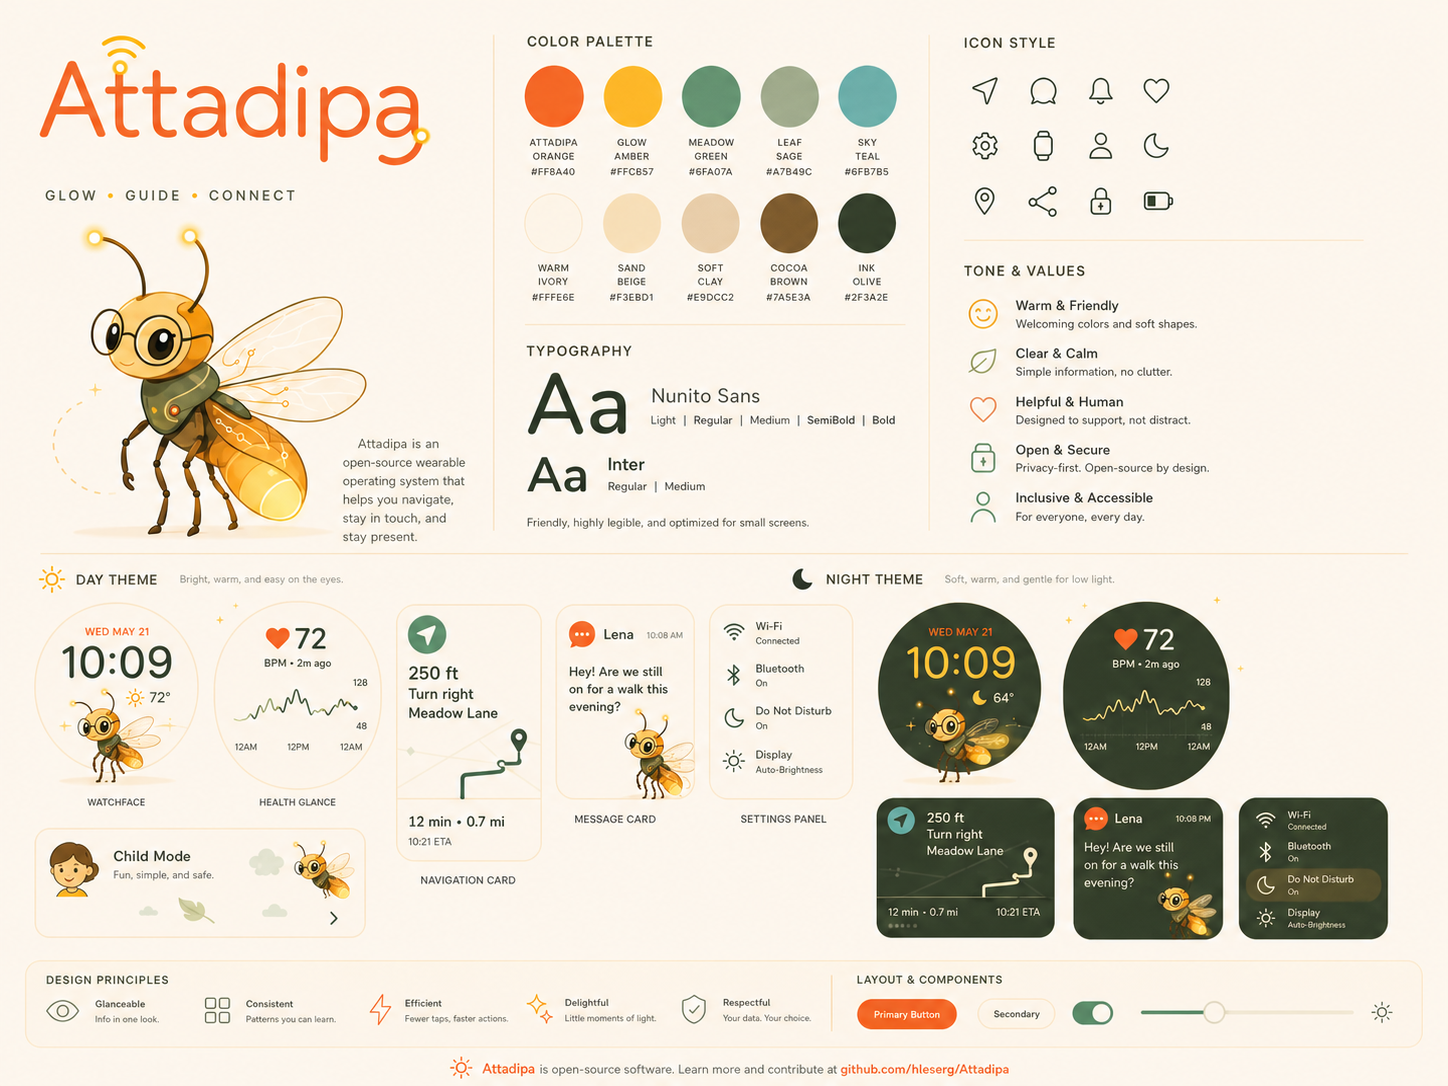
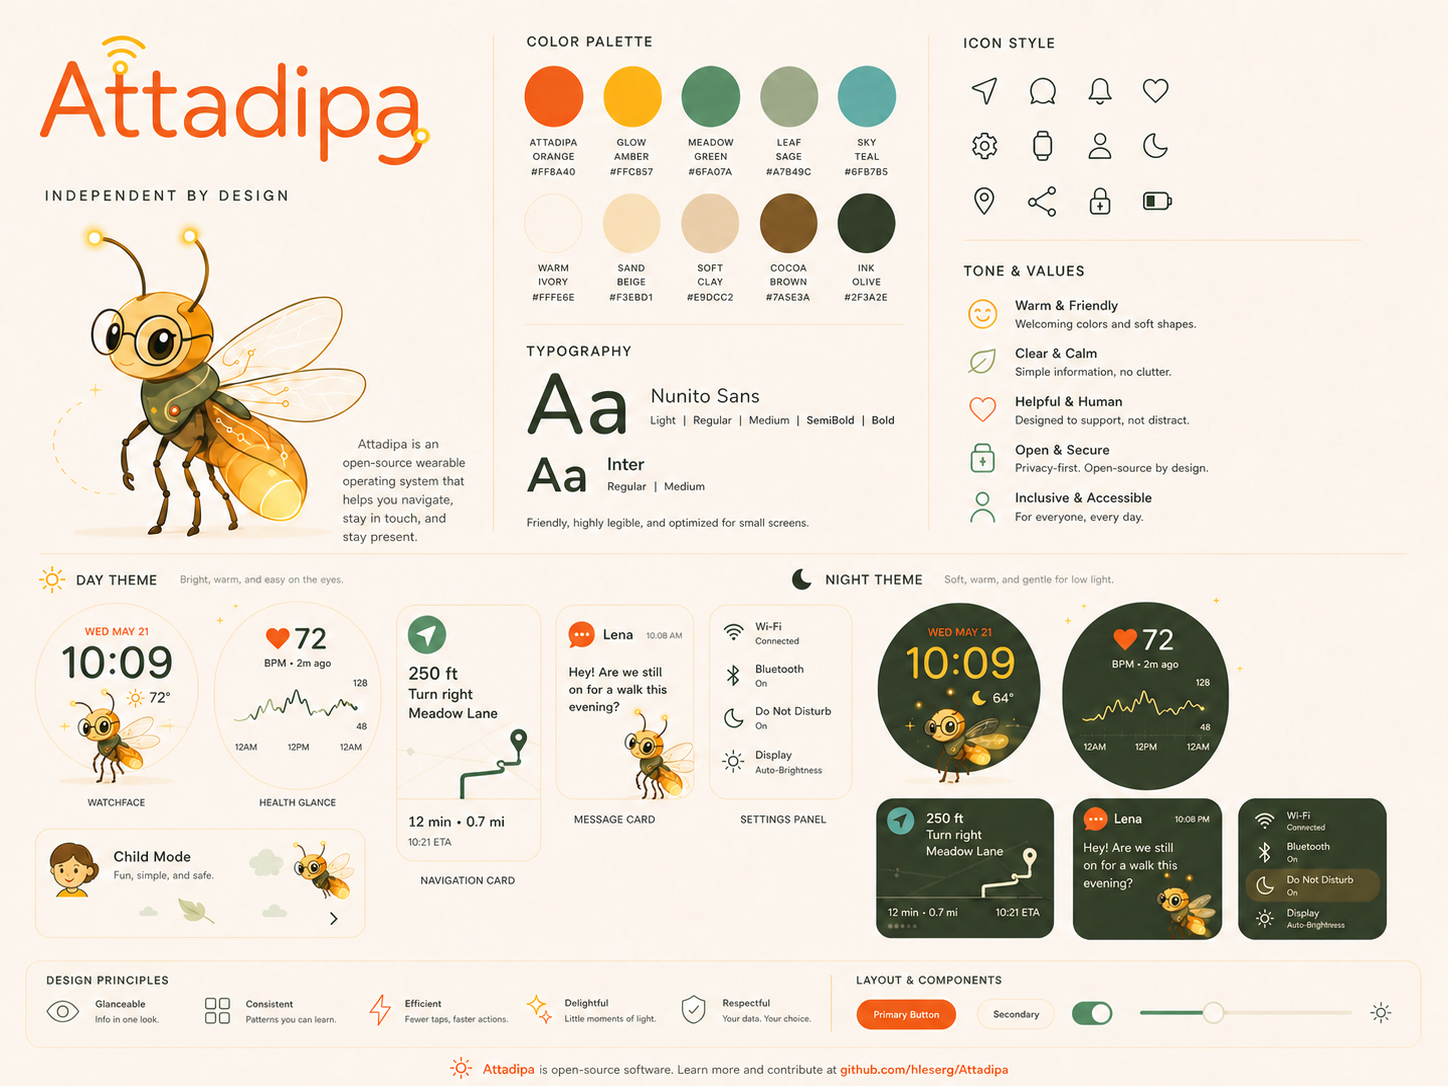
docs: adopt independent by design motto

diff --git a/docs/index.html b/docs/index.html
@@ -5,10 +5,10 @@
   <meta name="viewport" content="width=device-width, initial-scale=1">
   <meta name="theme-color" content="#FFF6E8">
   <meta name="color-scheme" content="light dark">
-  <title>Attadipa — Glow · Guide · Connect</title>
+  <title>Attadipa — Independent by design</title>
   <meta name="description" content="Attadipa is an open-source wearable firmware/application platform for ESP32-S3: mesh messaging, offline navigation, clean app APIs and a product-grade UI.">
   <meta property="og:type" content="website">
-  <meta property="og:title" content="Attadipa — Glow · Guide · Connect">
+  <meta property="og:title" content="Attadipa — Independent by design">
   <meta property="og:description" content="An open, hardware-aware wearable platform for mesh messaging, offline navigation and useful apps without depending on a phone.">
   <meta property="og:image" content="https://hleserg.github.io/Attadipa/assets/og-card.jpg">
   <meta property="og:url" content="https://hleserg.github.io/Attadipa/">
@@ -80,6 +80,8 @@
         </h1>
         <p class="hero-lead lang-en" lang="en">Attadipa is an open firmware/application platform being built for ESP32-S3 wearables: mesh messaging, offline navigation, clean app APIs, and a UI meant to feel like a real product.</p>
         <p class="hero-lead lang-ru" lang="ru">Attadipa — открытая прошивка и платформа приложений для носимых устройств на ESP32-S3: mesh-связь, офлайн-навигация, чистые API для приложений и интерфейс, который должен ощущаться как настоящий продукт.</p>
+        <p class="project-name-note lang-en" lang="en"><em>Attadipa</em> comes from Pāli <em>attadīpa</em>: “self-reliant; one’s own island or refuge.” It is a quiet reminder that the essentials should work without a phone or cloud.</p>
+        <p class="project-name-note lang-ru" lang="ru"><em>Attadipa</em> — от палийского <em>attadīpa</em>: «опирающийся на себя; собственный остров или прибежище». Это ненавязчивое напоминание: главное должно работать без телефона и облака.</p>
         <div class="hero-actions">
           <a class="btn primary" href="https://github.com/hleserg/Attadipa" target="_blank" rel="noreferrer">
             <span class="lang-en">View on GitHub</span><span class="lang-ru">Открыть GitHub</span>
@@ -94,7 +96,7 @@
         </div>
       </div>
       <div class="hero-art reveal reveal-delay" aria-label="Attadipa brand banner">
-        <img src="assets/attadipa-banner.png" width="1788" height="894" alt="Attadipa — Glow, Guide, Connect">
+        <img src="assets/attadipa-banner.png" width="1788" height="894" alt="Attadipa — Independent by design">
         <span class="glow g1"></span><span class="glow g2"></span><span class="glow g3"></span>
       </div>
     </section>
@@ -309,7 +311,7 @@
 
   <footer class="footer">
     <div class="shell footer-inner">
-      <div class="footer-brand"><img src="assets/favicon.png" width="28" height="28" alt=""><span>Attadipa</span><small>Glow · Guide · Connect</small></div>
+      <div class="footer-brand"><img src="assets/favicon.png" width="28" height="28" alt=""><span>Attadipa</span><small>Independent by design</small></div>
       <p><span class="lang-en">Open source under the MIT License. Early development — claims on this page describe both current state and explicit product goals as labelled.</span><span class="lang-ru">Открытый проект под лицензией MIT. Разработка на раннем этапе: на странице отдельно описаны текущее состояние и заявленные цели продукта.</span></p>
       <a href="#top"><span class="lang-en">Back to top</span><span class="lang-ru">Наверх</span> ↑</a>
     </div>

diff --git a/docs/assets/site.css b/docs/assets/site.css
@@ -10,3 +10,4 @@
 @media (max-width:660px){:root{--shell:min(100% - 28px,1180px);--radius:22px}.topbar{position:sticky}.nav-shell{height:66px;gap:10px}.brand span{font-size:17px}.github-mini{display:none}.hero{padding-block:42px 56px}.hero h1{font-size:45px}.hero-lead{font-size:17px}.hero-art{padding:6px;border-radius:24px}.hero-art img{border-radius:19px}.section{padding-block:74px}.section h2{font-size:36px}.section-heading p,.split-copy p,.design-copy p,.status-copy p,.ideas-copy p,.contribute-card p{font-size:16px}.feature-grid,.hardware-grid{grid-template-columns:1fr}.feature-card{min-height:0}.split{gap:40px}.architecture{padding:19px;border-radius:23px}.arch-row{grid-template-columns:1fr 1fr}.arch-providers{grid-template-columns:1fr}.design-grid{gap:35px}.status-card{padding:28px;border-radius:25px}.status-card h2{font-size:34px}.ideas-art{min-height:330px}.ideas-art img{max-height:350px}.contribute-card{padding:28px;gap:35px}.footer-inner{grid-template-columns:1fr}.footer p{grid-column:auto}.footer-inner>a{justify-self:start}.lang-switch button{padding:4px 7px}.hero-meta{font-size:10px}}
 @media (prefers-color-scheme:dark){:root{--ivory:#252d23;--surface:#30372d;--surface-2:#394034;--clay:#3b4337;--border:rgba(255,246,232,.12);--muted:#c4bba8;--shadow:0 28px 80px rgba(0,0,0,.20);--shadow-small:0 12px 30px rgba(0,0,0,.16)}body{background:#252d23;color:#fff6e8}.topbar{background:rgba(37,45,35,.88)}.lang-switch{background:rgba(60,64,51,.8)}.lang-switch button[aria-pressed="true"]{background:#3c4033;color:#fff6e8}.github-mini{background:#fff6e8;color:#2f3a2e}.hero-art,.feature-card,.hardware-card,.contribute-card{background:rgba(60,64,51,.46)}.btn.secondary{background:rgba(60,64,51,.5)}.band{background:linear-gradient(135deg,rgba(60,64,51,.6),rgba(79,127,118,.12))}.design-band{background:#2d352a}.design-board{background:#343b30}.ideas-band{background:radial-gradient(circle at 14% 60%,rgba(255,200,87,.12),transparent 25%),linear-gradient(135deg,#2b3328,#34382e)}.ideas-art img{mix-blend-mode:normal;border-radius:26px}.idea-pills>span{background:rgba(60,64,51,.55)}.contribute-links a{background:rgba(60,64,51,.42)}.nav-links a{color:#D8D2C4}.nav-links a:hover{color:var(--amber)}.eyebrow{color:#E2B86D}.hero-meta{color:#D7B677}.hero .btn.secondary{background:rgba(255,246,232,.10);border-color:rgba(255,246,232,.24);color:#FFF6E8}.hero .btn.secondary:hover{background:rgba(255,246,232,.16)}.architecture{background:#20291F;color:#FFF6E8}.status-card{background:#20291F;color:#FFF6E8}.status-card h2{color:#FFF6E8}.status-card .btn.secondary{color:#FFF6E8}.design-copy h2,.status-copy h2{color:#FFF6E8}.contact-note{background:rgba(111,183,181,.10);border-color:rgba(111,183,181,.24)}}
 @media (prefers-reduced-motion:reduce){html{scroll-behavior:auto}.reveal{opacity:1;transform:none;transition:none}.glow{animation:none}.btn,.feature-card,.contribute-links a{transition:none}}
+.project-name-note{max-width:610px;margin:13px 0 0;color:color-mix(in srgb,var(--muted) 86%,var(--ivory));font-size:13px;line-height:1.5}.project-name-note em{font-style:normal;color:color-mix(in srgb,var(--cocoa) 78%,transparent)}

diff --git a/docs/assets/site.js b/docs/assets/site.js
@@ -6,11 +6,11 @@
 
   const copy = {
     en: {
-      title: 'Attadipa — Glow · Guide · Connect',
+      title: 'Attadipa — Independent by design',
       description: 'Attadipa is an open-source wearable firmware/application platform for ESP32-S3: mesh messaging, offline navigation, clean app APIs and a product-grade UI.'
     },
     ru: {
-      title: 'Attadipa — Glow · Guide · Connect',
+      title: 'Attadipa — Independent by design',
       description: 'Attadipa — открытая платформа прошивки и приложений для носимых устройств на ESP32-S3: mesh-связь, офлайн-навигация, чистые API и продуманный интерфейс.'
     }
   };

diff --git a/ATTADIPA_RENAME_PLAN.md b/ATTADIPA_RENAME_PLAN.md
@@ -6,6 +6,17 @@
 **Маскот:** **Lumar** — светлячок  
 **Архитектурное кредо:** **Independent by design.** Само имя Attadipa отсылает к палийскому *attadīpa* — «опирающийся на себя / имеющий себя островом и прибежищем». Ключевые возможности устройства не должны зависеть от телефона, облака или внешней инфраструктуры, если технически могут выполняться локально.
 
+> **Статус исполнения, 2026-08-21.** Технический rename, документация,
+> бренд-материалы, GitHub repository и GitHub Pages завершены. Проверены
+> новый URL, redirect старого URL, Discussions, Issues, Actions, Pages,
+> CodeQL, secrets/variables, environments и webhooks. У проекта нет внешних
+> сервисов, Docker/GHCR, релизов, пакетов, пользовательского домена, соцсетей
+> или отдельной CI-инфраструктуры — соответствующие пункты этого плана
+> неприменимы, а не пропущены. Остаются только намеренно отложенные действия:
+> регистрация домена при появлении такой потребности, профессиональный
+> trademark-clearance перед коммерческим запуском и контрольный внешний аудит
+> через 1–2 недели после публичного переименования.
+
 ---
 
 ## 0. Канонические правила именования
@@ -163,16 +174,16 @@ Targeted search не выявил exact package/component `attadipa` в:
 
 Он должен содержать:
 
-- [ ] `Attadipa` — имя проекта, всегда с такой капитализацией.
-- [ ] `Lumar` — имя маскота.
-- [ ] Lumar — светлячок; слово `firefly` допустимо только как обычное существительное.
-- [ ] `Independent by design` — архитектурное кредо, раскрывающее смысл названия.
-- [ ] Происхождение имени: палийское `attadīpa`; в самом бренде пишем `Attadipa` без диакритики.
-- [ ] Attadipa не расшифровывается как аббревиатура.
-- [ ] Не использовать `AttadipaOS` как альтернативное официальное имя без отдельного решения.
-- [ ] Правила для `attadipa`, `ATTADIPA_`, `attadipa_*`.
-- [ ] Русское написание в обычном тексте: **Аттадипа**, рекомендуемое произношение — **атта-ДИ-па**.
-- [ ] В UI/логотипе бренд лучше оставлять латиницей: **Attadipa**.
+- [x] `Attadipa` — имя проекта, всегда с такой капитализацией.
+- [x] `Lumar` — имя маскота.
+- [x] Lumar — светлячок; слово `firefly` допустимо только как обычное существительное.
+- [x] `Independent by design` — архитектурное кредо, раскрывающее смысл названия.
+- [x] Происхождение имени: палийское `attadīpa`; в самом бренде пишем `Attadipa` без диакритики.
+- [x] Attadipa не расшифровывается как аббревиатура.
+- [x] Не использовать `AttadipaOS` как альтернативное официальное имя без отдельного решения.
+- [x] Правила для `attadipa`, `ATTADIPA_`, `attadipa_*`.
+- [x] Русское написание в обычном тексте: **Аттадипа**, рекомендуемое произношение — **атта-ДИ-па**.
+- [x] В UI/логотипе бренд лучше оставлять латиницей: **Attadipa**.
 
 Это станет защитой от постепенного расползания названия по коду.
 
@@ -182,9 +193,9 @@ Targeted search не выявил exact package/component `attadipa` в:
 
 ## 2.1. Не переписывать историю Git
 
-- [ ] **Не делать filter-repo/BFG по старым коммитам.**
-- [ ] Не пытаться удалить `FireflyOS` из исторических commit messages.
-- [ ] Не менять старые merge commits и PR history.
+- [x] **Не делать filter-repo/BFG по старым коммитам.**
+- [x] Не пытаться удалить `FireflyOS` из исторических commit messages.
+- [x] Не менять старые merge commits и PR history.
 
 Причина: переписывание истории сломает SHA, PR references, forks и ссылки и ничего полезного для ребрендинга не даст.
 
@@ -198,13 +209,13 @@ Targeted search не выявил exact package/component `attadipa` в:
 
 Рекомендуемый порядок:
 
-- [ ] Создать ветку `rename/firefly-to-attadipa`.
-- [ ] На время rename не принимать крупные архитектурные изменения.
-- [ ] Не смешивать ребрендинг с рефакторингом логики.
-- [ ] Сначала добиться зелёного host build + tests + simulator под новым именем.
-- [ ] Затем слить rename.
-- [ ] Сразу после merge переименовать сам GitHub repository.
-- [ ] После rename репозитория провести второй проход проверки ссылок и внешних интеграций.
+- [x] Создать ветку `rename/firefly-to-attadipa`.
+- [x] На время rename не принимать крупные архитектурные изменения.
+- [x] Не смешивать ребрендинг с рефакторингом логики.
+- [x] Сначала добиться зелёного host build + tests + simulator под новым именем.
+- [x] Затем слить rename.
+- [x] Сразу после merge переименовать сам GitHub repository.
+- [x] После rename репозитория провести второй проход проверки ссылок и внешних интеграций.
 
 ---
 

diff --git a/docs/ui/reference/README.md b/docs/ui/reference/README.md
@@ -6,8 +6,8 @@ final master specification
 §40) and are named there as *canonical visual references* — not mood-board
 decoration.
 
-They are **immutable design references**. Do not edit them, do not re-export
-them, do not overwrite them with a "cleaned up" version. Derived and cleaned
+They are **canonical design references**. Update them only through an explicit
+brand decision; do not silently "clean up" or redraw them. Derived and cleaned
 artwork belongs in `ui/assets/source/`; generated target assets belong in
 `ui/assets/generated/`; the scripts that produce them belong in `tools/assets/`
 (§45). Nothing in this directory is ever compiled into firmware — a 1448×1086
@@ -15,17 +15,17 @@ PNG is a desktop concept sheet, not a watch asset.
 
 | File | SHA-256 | Size | Pixels |
 |---|---|---|---|
[6 lines of base64/hex data omitted]
 
 The hashes are here so that a later "I cleaned up the source art" commit is
 visible as one. Verify with `sha256sum docs/ui/reference/*.png`.
 
 ## What each one carries
 
-**`attadipa_brand_identity.png`** — the wordmark *Attadipa*, the tagline
-`GLOW · GUIDE · CONNECT`, the mascot, an icon mark, an app icon, and horizontal
+**`attadipa_brand_identity.png`** — the wordmark *Attadipa*, the motto
+`INDEPENDENT BY DESIGN`, the mascot, an icon mark, an app icon, and horizontal
 and stacked lockups. Its palette is labelled Honey / Apricot / Warm Coral /
 Sage / Warm Teal / Cream / Dark Olive.
 
@@ -97,8 +97,8 @@ marks — a banner, an application icon, a favicon — meant to be published as
 they are, and the banner is now at the top of the repository
 [`README`](../../../README.md).
 
-They matter here for two reasons. They add a tagline that did not previously
-exist — **`GLOW · GUIDE · CONNECT`** — and they carry inks that are *not* the
+They matter here for two reasons. They establish the motto
+**`INDEPENDENT BY DESIGN`** and carry inks that are *not* the
 §42 palette: the wordmark orange samples around `#E16439`, against Attadipa
 Orange `#FF8A40`. That is a wider gap than "disagree by a digit", so the rule
 above does not settle it, and it has been raised as A7 in

diff --git a/pics/README.md b/pics/README.md
@@ -13,9 +13,9 @@ they are.
 
 ## What the banner establishes
 
-- **A tagline: `GLOW · GUIDE · CONNECT`.** It did not exist before this file and
-  is not in the master prompt. Three words that happen to name the three things
-  the product claims to be: a light, a navigator, and a mesh.
+- **A motto: `INDEPENDENT BY DESIGN`.** It expresses the meaning of *attadīpa*:
+  useful core capabilities should work locally, without a mandatory phone,
+  cloud, or Internet connection.
 - **The mark.** Lumar, a firefly seen from above — olive head and thorax, two antennae,
   two orange-red wings, and an amber abdomen with a real glow behind it. The
   glow is the only light source in the composition, which is worth knowing

diff --git a/README.ru.md b/README.ru.md
@@ -1,6 +1,6 @@
 <p align="center">
   <img src="pics/Banner.png"
-       alt="Attadipa — светлячок со светящимся янтарным брюшком рядом с логотипом, над слоганом GLOW · GUIDE · CONNECT"
+       alt="Attadipa — светлячок со светящимся янтарным брюшком рядом с логотипом, над девизом Independent by design"
        width="820">
 </p>
 

diff --git a/docs/brand/naming.md b/docs/brand/naming.md
@@ -1,7 +1,7 @@
 # Attadipa naming
 
 `Attadipa` is the project name. Always write it with this capitalization; it is
-not an abbreviation and `Attadipa` is not an alternative official name.
+not an abbreviation, and `AttadipaOS` is not an alternative official name.
 
 The name comes from the Pali *attadīpa* ("relying on oneself" or "having
 oneself as an island/refuge"). The brand and code deliberately omit the

diff --git a/README.md b/README.md
@@ -1,6 +1,6 @@
 <p align="center">
   <img src="pics/AttadipaBanner.png"
-       alt="Attadipa — Lumar, a firefly with a glowing amber abdomen, beside the wordmark and the tagline GLOW · GUIDE · CONNECT"
+       alt="Attadipa — Lumar, a firefly with a glowing amber abdomen, beside the wordmark and the motto Independent by design"
        width="820">
 </p>
 

diff --git a/docs/master-prompt-final.md b/docs/master-prompt-final.md
@@ -1455,7 +1455,7 @@ Brand text:
 ```text
 Attadipa
 Attadipa
-GLOW • GUIDE • CONNECT
+INDEPENDENT BY DESIGN
 ```
 
 Use the tagline only where contextually appropriate.
